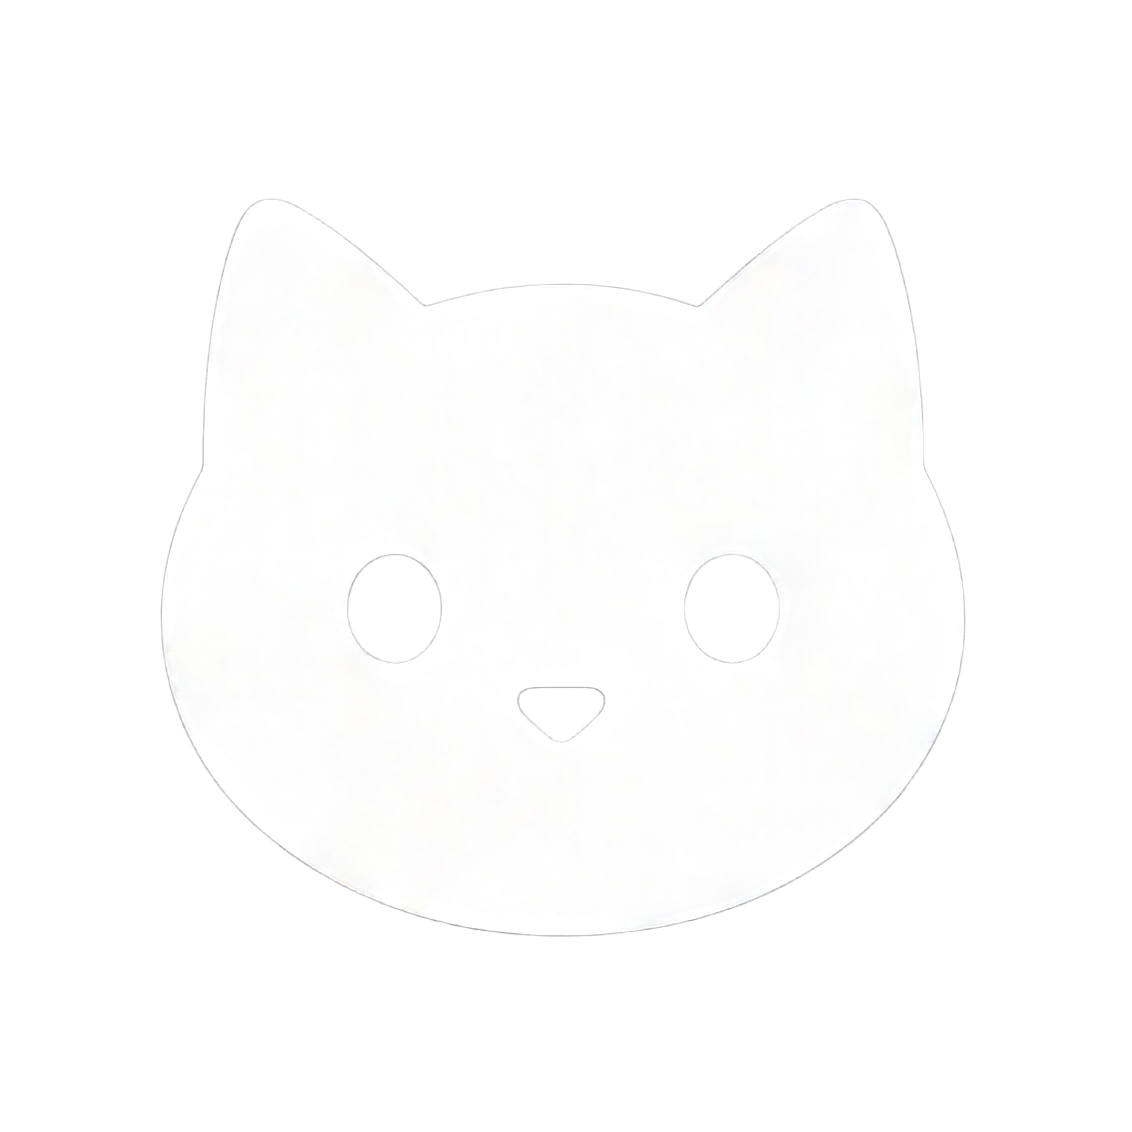
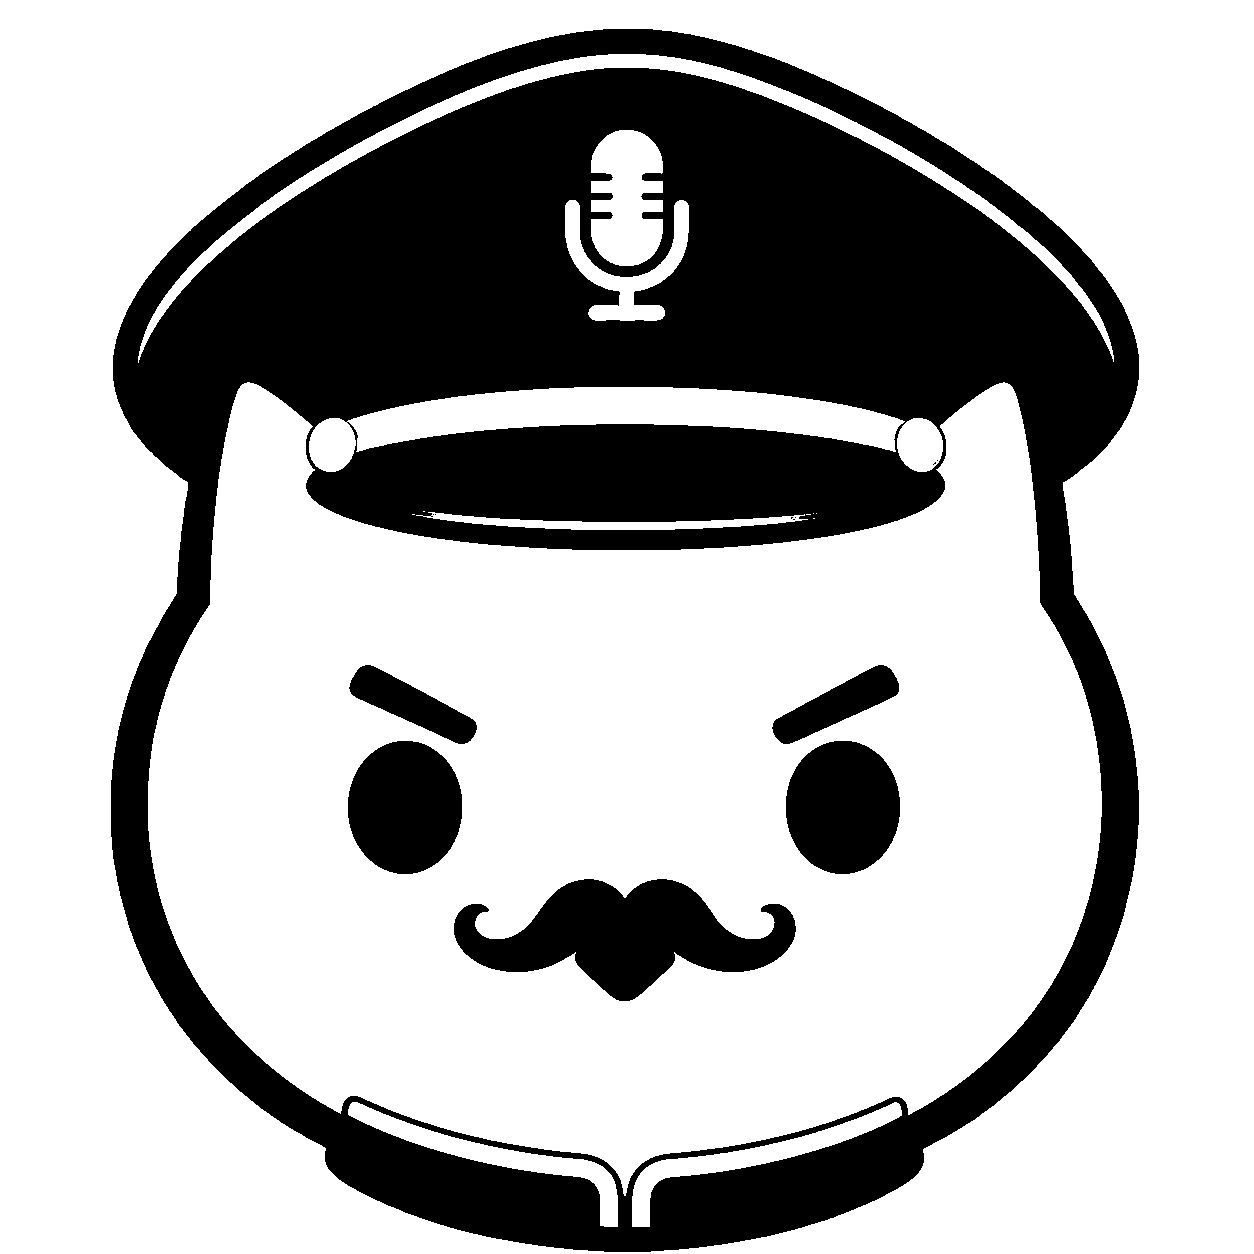
feat(ui): integrate animated dictator mascot

diff --git a/Sources/Murmur/DictatorMascot.swift b/Sources/Murmur/DictatorMascot.swift
@@ -1,0 +1,121 @@
+import Foundation
+import SwiftUI
+
+enum DictatorMascotMood: Equatable {
+    case idle
+    case listening
+    case transcribing
+    case success
+    case error
+}
+
+/// Layered mascot shared by the HUD, menu popover and onboarding. Facial layers
+/// move independently while the approved painted character stays pixel-identical.
+struct DictatorMascot: View {
+    let mood: DictatorMascotMood
+    var size: CGFloat
+
+    @Environment(\.accessibilityReduceMotion) private var reduceMotion
+    @State private var animationStart = Date.now
+
+    var body: some View {
+        TimelineView(.animation(minimumInterval: 1 / 30, paused: reduceMotion)) { context in
+            let elapsed = reduceMotion ? 0 : max(0, context.date.timeIntervalSince(animationStart))
+            let pose = DictatorMascotPose(mood: mood, elapsed: elapsed)
+
+            ZStack {
+                layer("dictator_face")
+                layer("dictator_brow_left", angle: pose.leftBrowAngle,
+                      offset: pose.leftBrowOffset, anchor: UnitPoint(x: 0.42, y: 0.57))
+                layer("dictator_brow_right", angle: pose.rightBrowAngle,
+                      offset: pose.rightBrowOffset, anchor: UnitPoint(x: 0.58, y: 0.57))
+                layer("dictator_moustache_left", angle: pose.leftMoustacheAngle,
+                      offset: pose.leftMoustacheOffset, anchor: UnitPoint(x: 0.49, y: 0.75))
+                layer("dictator_moustache_right", angle: pose.rightMoustacheAngle,
+                      offset: pose.rightMoustacheOffset, anchor: UnitPoint(x: 0.51, y: 0.75))
+            }
+            .frame(width: size, height: size)
+            .offset(pose.faceOffset)
+        }
+        .frame(width: size, height: size)
+        .accessibilityHidden(true)
+        .onChange(of: mood) { _, _ in animationStart = .now }
+    }
+
+    private func layer(_ name: String, angle: Double = 0, offset: CGSize = .zero,
+                       anchor: UnitPoint = .center) -> some View {
+        Image(name)
+            .renderingMode(.original)
+            .resizable()
+            .scaledToFit()
+            .frame(width: size, height: size)
+            .rotationEffect(.degrees(angle), anchor: anchor)
+            .offset(offset)
+    }
+}
+
+private struct DictatorMascotPose {
+    var faceOffset = CGSize.zero
+    var leftBrowAngle = 0.0
+    var rightBrowAngle = 0.0
+    var leftBrowOffset = CGSize.zero
+    var rightBrowOffset = CGSize.zero
+    var leftMoustacheAngle = 0.0
+    var rightMoustacheAngle = 0.0
+    var leftMoustacheOffset = CGSize.zero
+    var rightMoustacheOffset = CGSize.zero
+
+    init(mood: DictatorMascotMood, elapsed: TimeInterval) {
+        switch mood {
+        case .idle:
+            faceOffset.height = -0.6 * sin(elapsed * .pi * 2 / 2.4)
+
+        case .listening:
+            let wave = (sin(elapsed * .pi * 2 * 1.55) + 1) / 2
+            leftBrowAngle = -6 * wave
+            rightBrowAngle = 6 * wave
+            leftBrowOffset.height = -1.65 * wave
+            rightBrowOffset.height = -1.65 * wave
+            leftMoustacheAngle = -6 * wave
+            rightMoustacheAngle = 6 * wave
+            leftMoustacheOffset.height = -0.8 * wave
+            rightMoustacheOffset.height = -0.8 * wave
+
+        case .transcribing:
+            let wave = sin(elapsed * .pi * 2 * 1.05)
+            leftBrowAngle = -6 * wave
+            rightBrowAngle = 6 * wave
+            leftBrowOffset.height = -1.1 - 0.7 * wave
+            rightBrowOffset.height = -1.1 + 0.7 * wave
+            leftMoustacheAngle = -5 * wave
+            rightMoustacheAngle = 5 * wave
+            leftMoustacheOffset.width = -0.65 * wave
+            rightMoustacheOffset.width = 0.65 * wave
+
+        case .success:
+            let progress = min(1, elapsed / 0.72)
+            let pop = sin(min(1, progress * 1.35) * .pi)
+            faceOffset.height = 1.6 * sin(progress * .pi * 2 * 1.8) * exp(-3.6 * progress)
+            leftBrowAngle = -7 * pop
+            rightBrowAngle = 7 * pop
+            leftBrowOffset.height = -2 * pop
+            rightBrowOffset.height = -2 * pop
+            leftMoustacheAngle = -10 * pop
+            rightMoustacheAngle = 10 * pop
+            leftMoustacheOffset.height = -0.7 * pop
+            rightMoustacheOffset.height = -0.7 * pop
+
+        case .error:
+            let envelope = max(0, 1 - elapsed / 0.5)
+            faceOffset.width = 1.5 * sin(elapsed * .pi * 2 * 9) * envelope
+            leftBrowAngle = 10
+            rightBrowAngle = 5
+            leftBrowOffset.height = -1.3
+            rightBrowOffset.height = 0.7
+            leftMoustacheAngle = 8
+            rightMoustacheAngle = -8
+            leftMoustacheOffset.height = 1.2
+            rightMoustacheOffset.height = 1.2
+        }
+    }
+}

diff --git a/Sources/Murmur/HUDOverlay.swift b/Sources/Murmur/HUDOverlay.swift
@@ -14,7 +14,7 @@ import SwiftUI
 
 @Observable
 final class HUDModel {
-    enum Phase { case listening, transcribing, error }
+    enum Phase { case listening, transcribing, finished, error }
     var phase: Phase = .listening
     var confirmed = ""
     var partial = ""
@@ -73,11 +73,6 @@ private struct PulseDot: View {
     }
 }
 
-private func catIcon(_ size: CGFloat) -> some View {
-    Image("cat_fill").renderingMode(.original).resizable().scaledToFit()
-        .frame(width: size, height: size)
-}
-
 // MARK: - HUD view
 
 private struct HUDView: View {
@@ -87,9 +82,10 @@ private struct HUDView: View {
     var body: some View {
         Group {
             switch model.phase {
-            case .error:        errorPill
-            case .listening:    listeningPill
-            case .transcribing: transcribePill
+            case .error:        mascotBubble(.error) { errorPill }
+            case .listening:    mascotBubble(.listening) { listeningPill }
+            case .transcribing: mascotBubble(.transcribing) { transcribePill }
+            case .finished:     mascotBubble(.success) { transcribePill }
             }
         }
         .frame(maxWidth: .infinity, maxHeight: .infinity, alignment: .bottom)
@@ -97,10 +93,9 @@ private struct HUDView: View {
         .padding(.horizontal, 40)
     }
 
-    // Header: cat + animated bars + language badge.
+    // Header: animated bars + language badge; the mascot overlaps the pill edge.
     private var header: some View {
         HStack(spacing: 10) {
-            catIcon(18)
             LevelBars(color: Mur.accent, count: 4, barHeight: 13)
             Spacer(minLength: 8)
             if model.submits { submitBadge }
@@ -184,11 +179,6 @@ private struct HUDView: View {
 
     private var errorPill: some View {
         HStack(spacing: 12) {
-            catIcon(22).overlay(alignment: .bottomTrailing) {
-                Circle().fill(Mur.error).frame(width: 12, height: 12)
-                    .overlay(Text("!").font(.system(size: 9, weight: .bold)).foregroundStyle(.white))
-                    .offset(x: 4, y: 2)
-            }
             VStack(alignment: .leading, spacing: 2) {
                 Text("No microphone access").font(.system(size: 13, weight: .medium))
                     .foregroundStyle(scheme == .dark ? Color.white.opacity(0.95) : Mur.ink)
@@ -198,6 +188,35 @@ private struct HUDView: View {
         }
         .padding(.horizontal, 16).padding(.vertical, 11)
         .murPill(scheme, radius: 14, border: Mur.error.opacity(0.4))
+    }
+
+    private func mascotBubble<Content: View>(
+        _ mood: DictatorMascotMood,
+        @ViewBuilder content: () -> Content
+    ) -> some View {
+        ZStack(alignment: .leading) {
+            content()
+            mascotBadge(mood).offset(x: -25)
+        }
+        .padding(.leading, 25)
+    }
+
+    private func mascotBadge(_ mood: DictatorMascotMood) -> some View {
+        let shape = RoundedRectangle(cornerRadius: 15, style: .continuous)
+        return DictatorMascot(mood: mood, size: 42)
+            .padding(4)
+            .background(Mur.glass(scheme), in: shape)
+            .background(.ultraThinMaterial, in: shape)
+            .overlay(shape.strokeBorder(mood == .error ? Mur.error.opacity(0.4) : borderColor,
+                                        lineWidth: 1))
+            .shadow(color: .black.opacity(scheme == .dark ? 0.38 : 0.16), radius: 10, y: 6)
+            .overlay(alignment: .bottomTrailing) {
+                if mood == .error {
+                    Circle().fill(Mur.error).frame(width: 12, height: 12)
+                        .overlay(Text("!").font(.system(size: 9, weight: .bold)).foregroundStyle(.white))
+                        .offset(x: 3, y: 2)
+                }
+            }
     }
 
     /// Marks an utterance that will press Return when it lands. Two shortcuts only
@@ -275,7 +294,7 @@ final class HUDController {
     /// Live two-tier update.
     func update(confirmed: String, partial: String) {
         show(confirmed: confirmed, partial: partial)
-        if model.phase != .error {
+        if model.phase != .error, model.recording {
             model.phase = (model.confirmed.isEmpty && model.partial.isEmpty) ? .listening : .transcribing
         }
     }
@@ -310,7 +329,7 @@ final class HUDController {
         model.showStop = false
         if !finalText.isEmpty {
             show(confirmed: finalText, partial: "")
-            model.phase = .transcribing
+            model.phase = .finished
         }
         scheduleHide(after: linger)
     }

diff --git a/Sources/Murmur/MenuPopover.swift b/Sources/Murmur/MenuPopover.swift
@@ -4,7 +4,7 @@ import PostHog
 import SwiftUI
 
 /// The menu-bar dropdown (design: MurMur.dc.html) shown as a `.window`-style
-/// MenuBarExtra: cat + master toggle, live status + hotkey, a mic meter, the
+/// MenuBarExtra: mascot + master toggle, live status + hotkey, a mic meter, the
 /// Model / Insert / Hotkey segmented controls, and a Settings/Quit footer.
 struct MenuPopover: View {
     let dictation: DictationController
@@ -59,9 +59,7 @@ struct MenuPopover: View {
     private var head: some View {
         VStack(spacing: 9) {
             HStack(spacing: 10) {
-                Image("cat_fill").renderingMode(.original).resizable().scaledToFit()
-                    .frame(width: 26, height: 26)
-                    .accessibilityHidden(true)   // decorative; "MurMur" label carries the name
+                DictatorMascot(mood: dictation.mascotMood, size: 30)
                 Text("MurMur").font(.system(size: 15, weight: .semibold)).foregroundStyle(primary)
                 Spacer()
                 Toggle("", isOn: $enabled).toggleStyle(.switch).tint(Mur.accent).labelsHidden()

diff --git a/Sources/Murmur/DictationController.swift b/Sources/Murmur/DictationController.swift
@@ -104,6 +104,15 @@ final class DictationController {
         state == .recording || state == .transcribing
     }
 
+    var mascotMood: DictatorMascotMood {
+        switch state {
+        case .recording: return .listening
+        case .transcribing: return .transcribing
+        case .error: return .error
+        case .loadingModels, .idle, .transcribed: return .idle
+        }
+    }
+
     func bootstrap() {
         session.onUpdate = { [weak self] confirmed, partial in self?.echo(confirmed, partial) }
         captionSession.onSnapshot = { [weak self] snapshot in self?.echoCaptions(snapshot) }

diff --git a/Sources/Murmur/MurmurApp.swift b/Sources/Murmur/MurmurApp.swift
@@ -28,7 +28,7 @@ struct MurmurApp: App {
         }
     }
 
-    /// The menu-bar glyph: `cat_fill` (Media.xcassets) rendered as a **template**
+    /// The compact dictator mascot glyph (`cat_fill` in Media.xcassets) rendered as a **template**
     /// — monochrome, auto-tinted for light/dark menu bars — sized to the menu bar.
     /// Falls back to an SF Symbol if the asset is somehow missing.
     private static let menuIcon: NSImage = {
@@ -40,4 +40,3 @@ struct MurmurApp: App {
         return image
     }()
 }
-

diff --git a/Sources/Murmur/Onboarding/OnboardingChrome.swift b/Sources/Murmur/Onboarding/OnboardingChrome.swift
@@ -40,10 +40,9 @@ struct OnTheme {
     }
 }
 
-/// Round "cat" image asset (reuses `cat_fill` — the only cat asset bundled).
+/// Shared mascot artwork; the rail adds its own narrator bounce on top.
 func onboardingCat(_ size: CGFloat) -> some View {
-    Image("cat_fill").renderingMode(.original).resizable().scaledToFit()
-        .frame(width: size, height: size)
+    DictatorMascot(mood: .idle, size: size)
 }
 
 /// Filled upward triangle — the speech-bubble tail (apex points at the cat).
